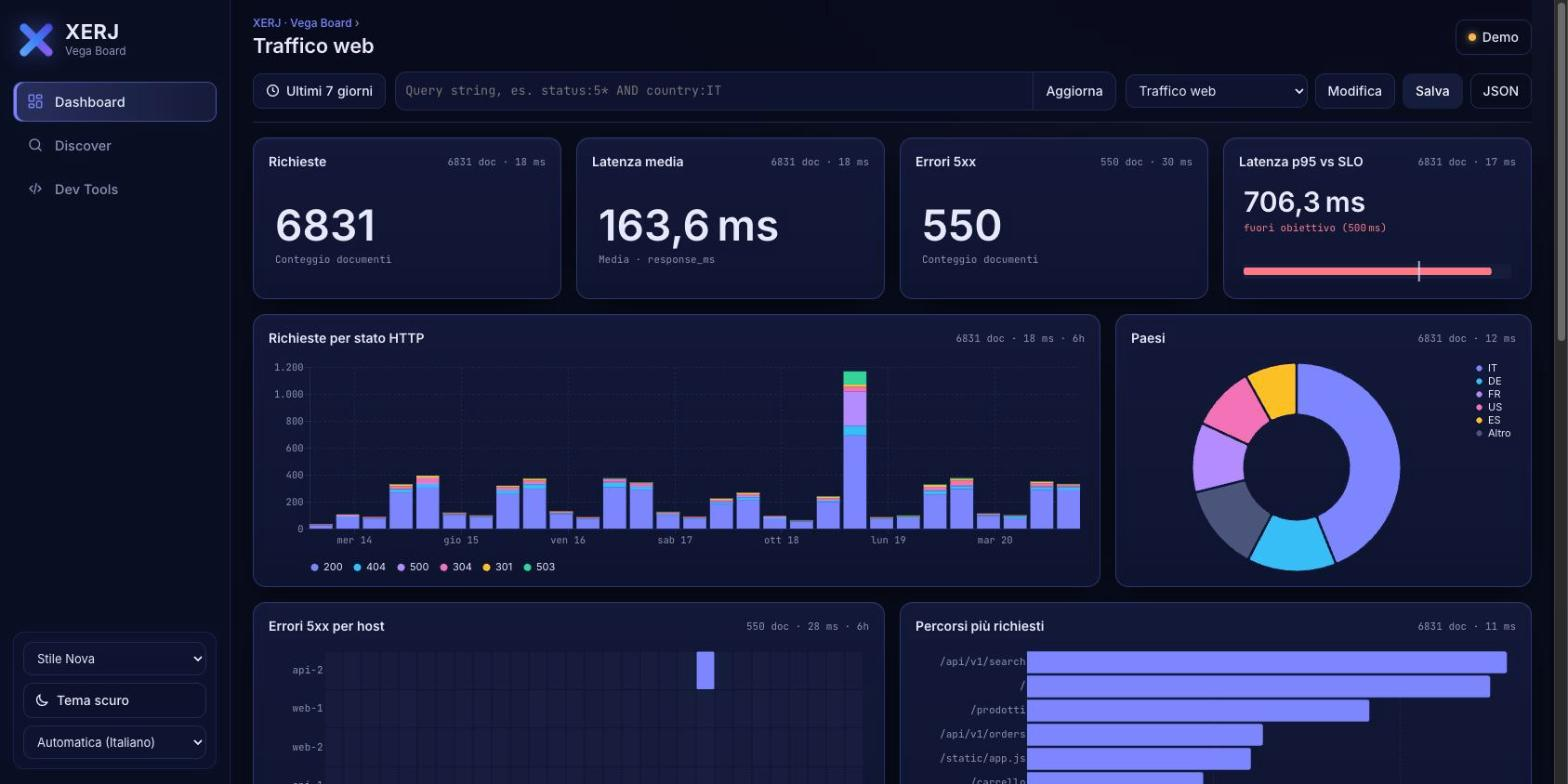
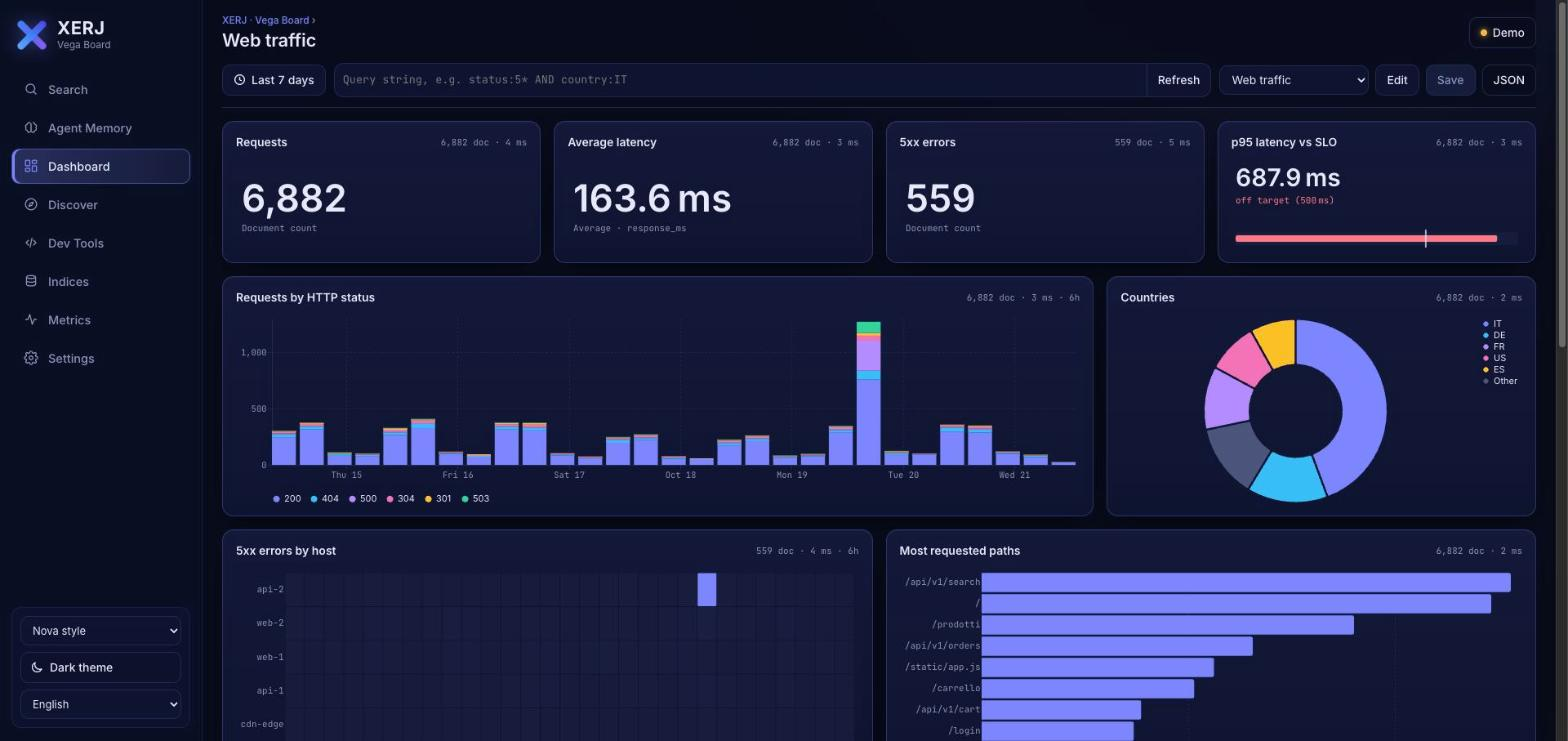
Screenshot Nova in inglese (dashboard, ricerca, index pattern) e nuovi per Memoria agenti e Metriche
Stessi nomi file: le immagini della discussione xerj-org/xerj#2000 si aggiornano da sole.
In inglese «Index patterns (1)» invece di «1 index patterns».

diff --git a/core/i18n/en.js b/core/i18n/en.js
@@ -266,8 +266,8 @@ export default {
   'idx.editPattern': 'Edit index pattern',
   'idx.reload': 'Reload',
   'idx.failed': 'Indices could not be read',
-  'idx.count': '{n} indices',
-  'idx.patternCount': '{n} index patterns',
+  'idx.count': 'Indices ({n})',
+  'idx.patternCount': 'Index patterns ({n})',
   'idx.docs': 'Documents',
   'idx.size': 'Size',
   'idx.matches': 'Indices',
